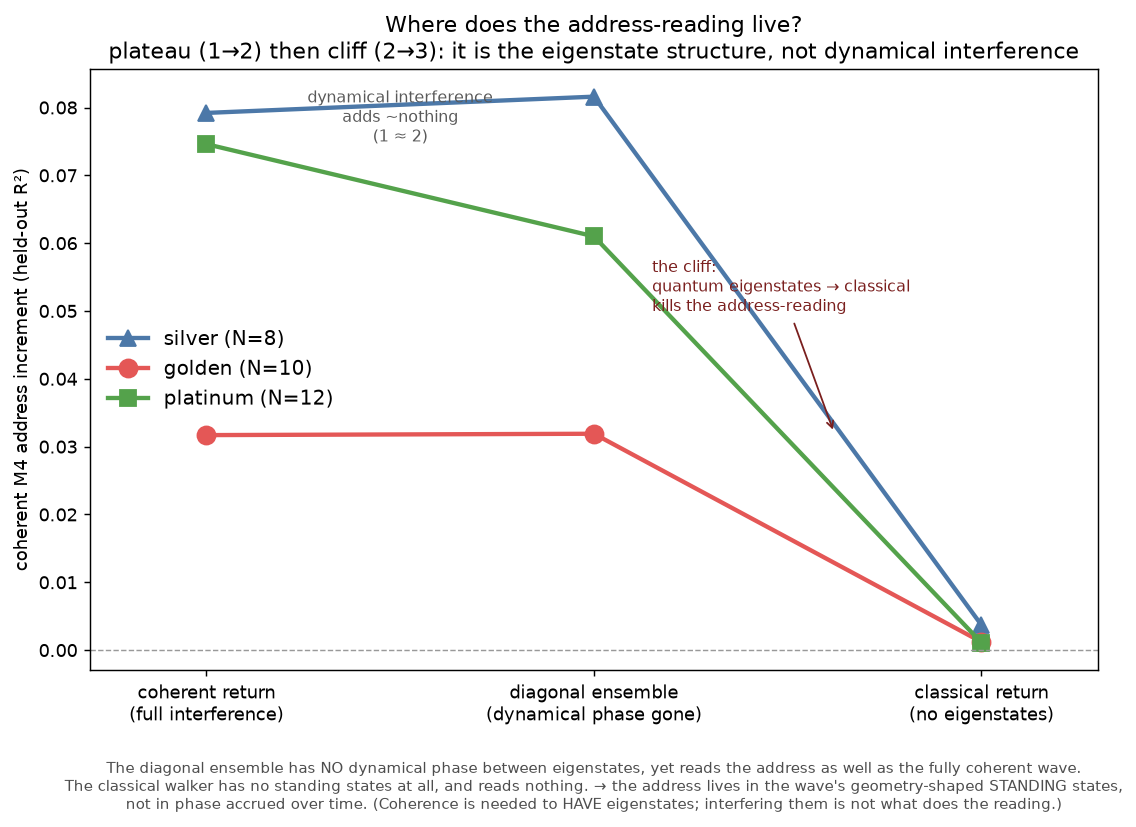
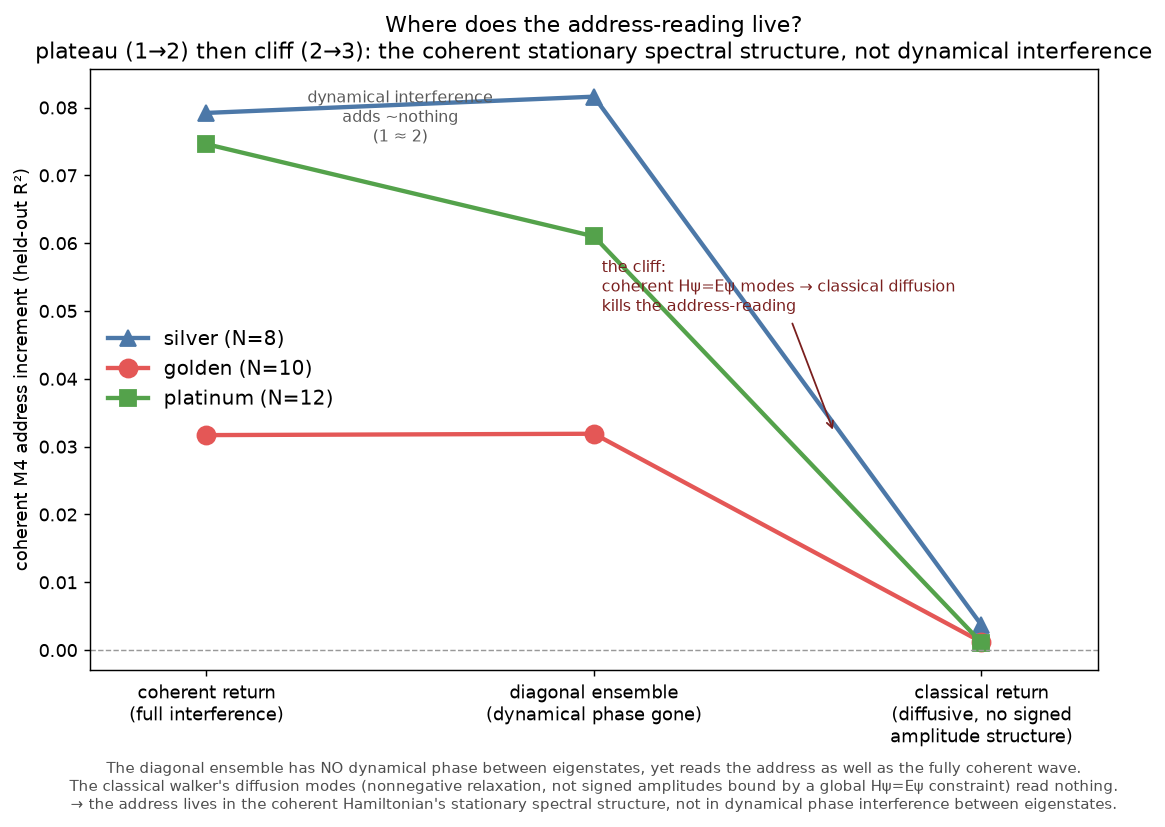
Coherence: fix overstatement (classical has spectral modes too); precise wording
GPT's cleanup. Retire 'classical has no eigenstates' -- a classical diffusion
operator has spectral modes; the real contrast is signed/complex amplitudes
bound by a global H-psi=E-psi consistency vs nonnegative diffusion relaxation.
Precise claim: address sensitivity resides in the stationary spectral structure
of the coherent Hamiltonian and does not require dynamical inter-eigenstate
phase interference. Reframe: map-memory + shape-memory. Updates
RESULTS_COHERENCE.md and coherence_ladder.png captions.

Claude-Session: https://claude.ai/code/session_016GYWoez8b6Pu6TaZbQ4efN

diff --git a/substrates/plot_dephasing.py b/substrates/plot_dephasing.py
@@ -7,7 +7,7 @@ matplotlib.use("Agg")
 import matplotlib.pyplot as plt
 
 rungs = ["coherent return\n(full interference)", "diagonal ensemble\n(dynamical phase gone)",
-         "classical return\n(no eigenstates)"]
+         "classical return\n(diffusive, no signed\namplitude structure)"]
 silver   = [0.0792, 0.0816, 0.0037]
 golden   = [0.0317, 0.0319, 0.0012]
 platinum = [0.0746, 0.0610, 0.0011]
@@ -22,22 +22,22 @@ ax.set_xticks(x); ax.set_xticklabels(rungs, fontsize=10)
 ax.set_xlim(-0.3, 2.3)
 ax.set_ylabel("coherent M4 address increment (held-out R²)")
 ax.set_title("Where does the address-reading live?\n"
-             "plateau (1→2) then cliff (2→3): it is the eigenstate structure, "
+             "plateau (1→2) then cliff (2→3): the coherent stationary spectral structure, "
              "not dynamical interference")
 ax.legend(frameon=False, fontsize=11, loc="center left")
 
 ax.annotate("dynamical interference\nadds ~nothing\n(1 ≈ 2)", (0.5, 0.075),
             ha="center", fontsize=9, color="0.35")
-ax.annotate("the cliff:\nquantum eigenstates → classical\nkills the address-reading",
-            (1.62, 0.032), xytext=(1.15, 0.050), fontsize=9, color="#7a1f1e",
+ax.annotate("the cliff:\ncoherent Hψ=Eψ modes → classical diffusion\nkills the address-reading",
+            (1.62, 0.032), xytext=(1.02, 0.050), fontsize=9, color="#7a1f1e",
             arrowprops=dict(arrowstyle="->", color="#7a1f1e", lw=1.0))
 
 ax.text(0.5, -0.15,
         "The diagonal ensemble has NO dynamical phase between eigenstates, yet reads the "
-        "address as well as the fully coherent wave.\nThe classical walker has no standing "
-        "states at all, and reads nothing. → the address lives in the wave's geometry-shaped "
-        "STANDING states,\nnot in phase accrued over time. (Coherence is needed to HAVE "
-        "eigenstates; interfering them is not what does the reading.)",
+        "address as well as the fully coherent wave.\nThe classical walker's diffusion modes "
+        "(nonnegative relaxation, not signed amplitudes bound by a global Hψ=Eψ constraint) "
+        "read nothing.\n→ the address lives in the coherent Hamiltonian's stationary spectral "
+        "structure, not in dynamical phase interference between eigenstates.",
         transform=ax.transAxes, ha="center", va="top", fontsize=8.3, color="0.3")
 
 out = __file__.rsplit("/", 1)[0] + "/coherence_ladder.png"

diff --git a/substrates/RESULTS_COHERENCE.md b/substrates/RESULTS_COHERENCE.md
@@ -27,8 +27,11 @@ coherence, all from the eigenstates (no noisy simulation needed for this rung):
    interference (short times t = 0.3/0.6/1.2, so interference is genuinely present).
 2. **diagonal ensemble** P_diag(v) = Σ_{k∈win} |φ_k(v)|⁴ — the infinite-time average:
    dynamical phases between eigenstates gone, eigenstate structure intact.
-3. **classical return** — the sealed incoherent null (random-walk return): no quantum
-   eigenstates at all.
+3. **classical return** — the sealed incoherent null (random-walk return): diffusive
+   relaxation, no coherent signed-amplitude structure. (It is *not* "no eigenstates" — a
+   classical diffusion operator has spectral modes too; the difference is that they are
+   nonnegative relaxation patterns, not signed/complex amplitudes bound by a global
+   Hψ = Eψ consistency constraint.)
 
 Address increment (M4-over-M3, held-out-offset CV, extent 12, 4 offsets):
 
@@ -49,25 +52,37 @@ interference (going to the diagonal ensemble) barely changes the address increme
 identical; silver identical; platinum a faint +0.014 interference bonus). Then it **falls off
 a cliff** to classical (rung 3 ≈ 0).
 
-So the mechanism is **not dynamical phase-accrual over paths.** It is the **eigenstate
-structure itself** — the wave's stationary, geometry-shaped standing-wave patterns |φ_k(v)|².
-The classical walker reads nothing because it has no such standing states, not because it
-lacks path-interference.
+So the mechanism is **not dynamical phase-accrual over paths.** The precise, safe statement
+(GPT's cleanup): **the address sensitivity resides in the stationary spectral structure of
+the coherent tight-binding Hamiltonian, and does not require dynamical inter-eigenstate phase
+interference.** The coherent eigenmode |φ_k⟩ satisfies Hψ = Eψ — one amplitude pattern that
+must be *globally* self-consistent across the whole graph at once — so it can be sensitive to
+global quasiperiodic placement beyond any local motif. The classical walker's diffusion modes
+solve no such signed, globally-constrained amplitude problem, so they carry degree /
+bottleneck / local-connectivity structure but not this address-relevant organization.
 
 ## The reframe (honest correction of the poetry)
 
 "Memory reads memory" survives, but transformed and made precise:
 
 - The reader's requisite "memory" is **not** dynamical phase-history accrued along paths
-  (that adds almost nothing here). It is the capacity to form **spatially-coherent standing
-  states**. An eigenstate is coherent amplitude accrued *across space* into a fixed pattern —
-  Karen's "accruement", but **spatial**, not temporal.
+  (that adds almost nothing here). It is the wave's **global standing-mode consistency** — one
+  signed amplitude pattern that must fit the whole graph's connectivity at once (Hψ = Eψ).
+  Not "spatial accrual in time" (an eigenmode does not literally accrue — GPT's caution) but
+  *global self-consistency across space*. Karen's "accruement" survives as: the pattern is
+  fixed by fitting the entire arrangement simultaneously, not built up step by step.
+- **map-memory + shape-memory** (GPT's phrasing): the geometry embodies relations; the
+  eigenmode embodies the geometry in a globally-constrained standing pattern. One static
+  relational structure becomes legible through another static relational structure — which is
+  eerily close to the programme's reconstructive-memory theme: *no transcript required, the
+  relation survives in form.*
 - This snaps neatly onto the programme's oldest theme: **quasiperiodicity governs static
   structure, not free dynamics.** Eigenstates are *static*. So even the wave reads the
   geometry through its *stationary* structure — the address is a static property, read by a
   static (standing) structure. The border wall holds even here.
-- Coherence is still necessary — you need phase coherence to *have* eigenstates at all — but
-  *interfering* them dynamically is not what does the reading.
+- Coherence is still necessary — you need the coherent, signed-amplitude Hamiltonian to have
+  these globally-constrained stationary modes — but *interfering* them dynamically is not what
+  does the reading.
 
 ## Status and caveats
 
